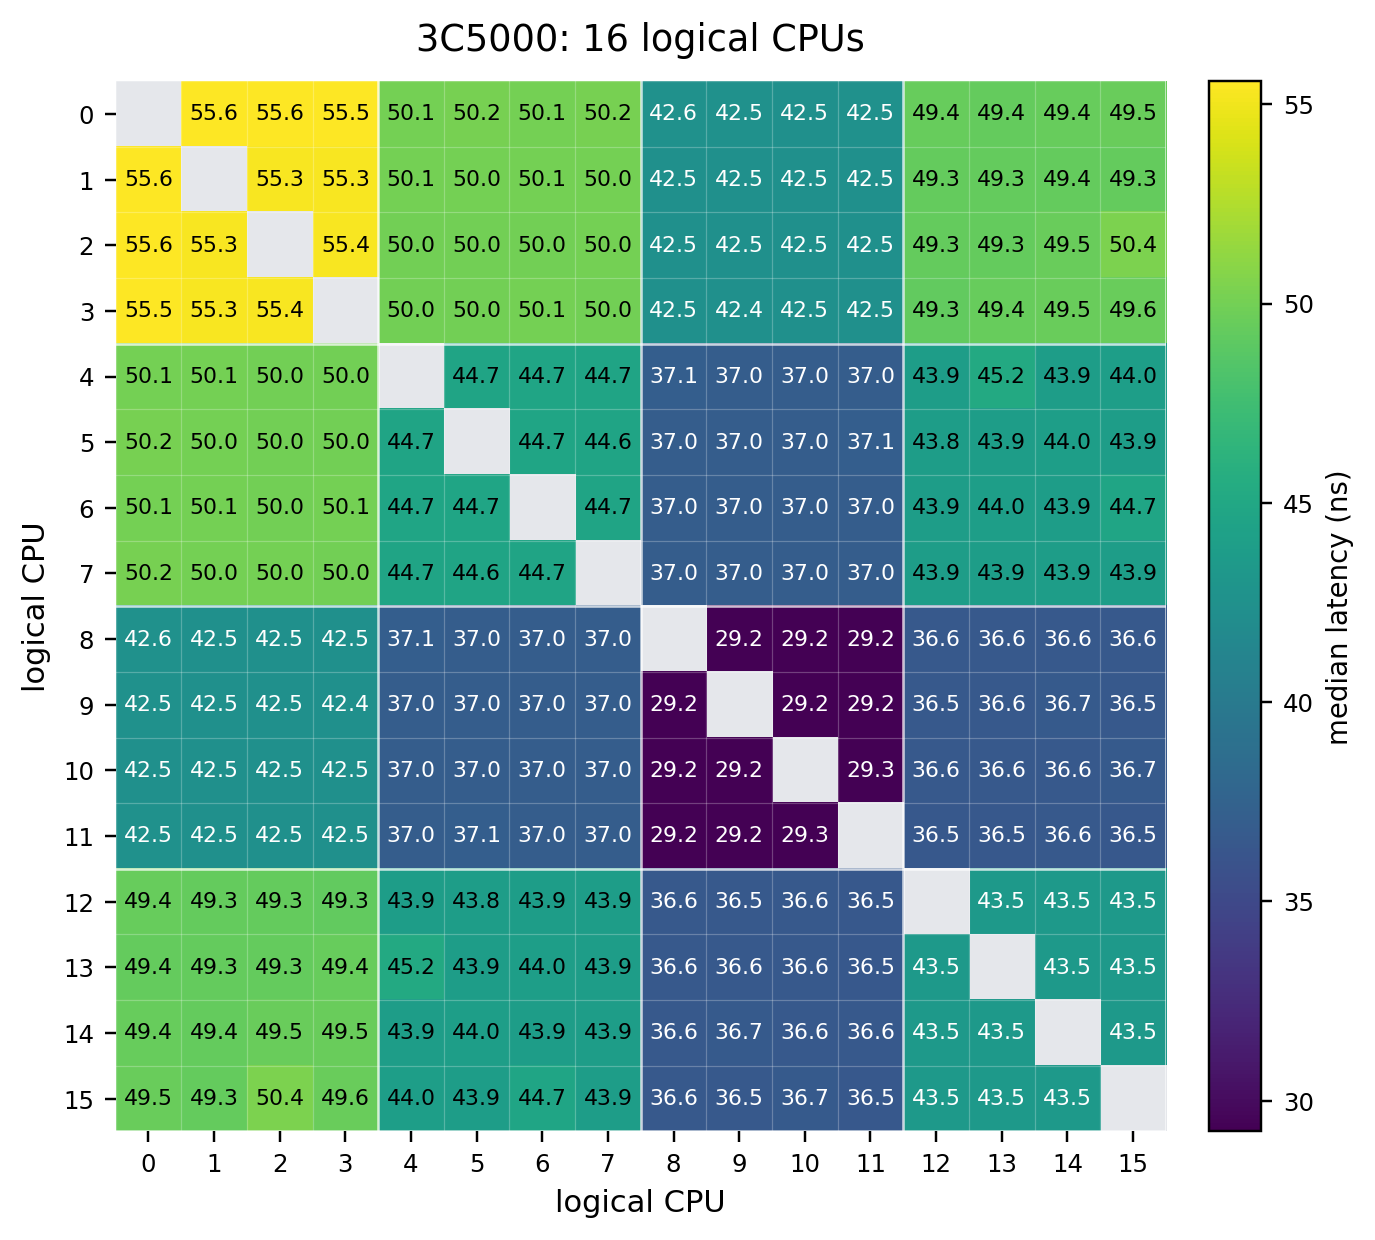
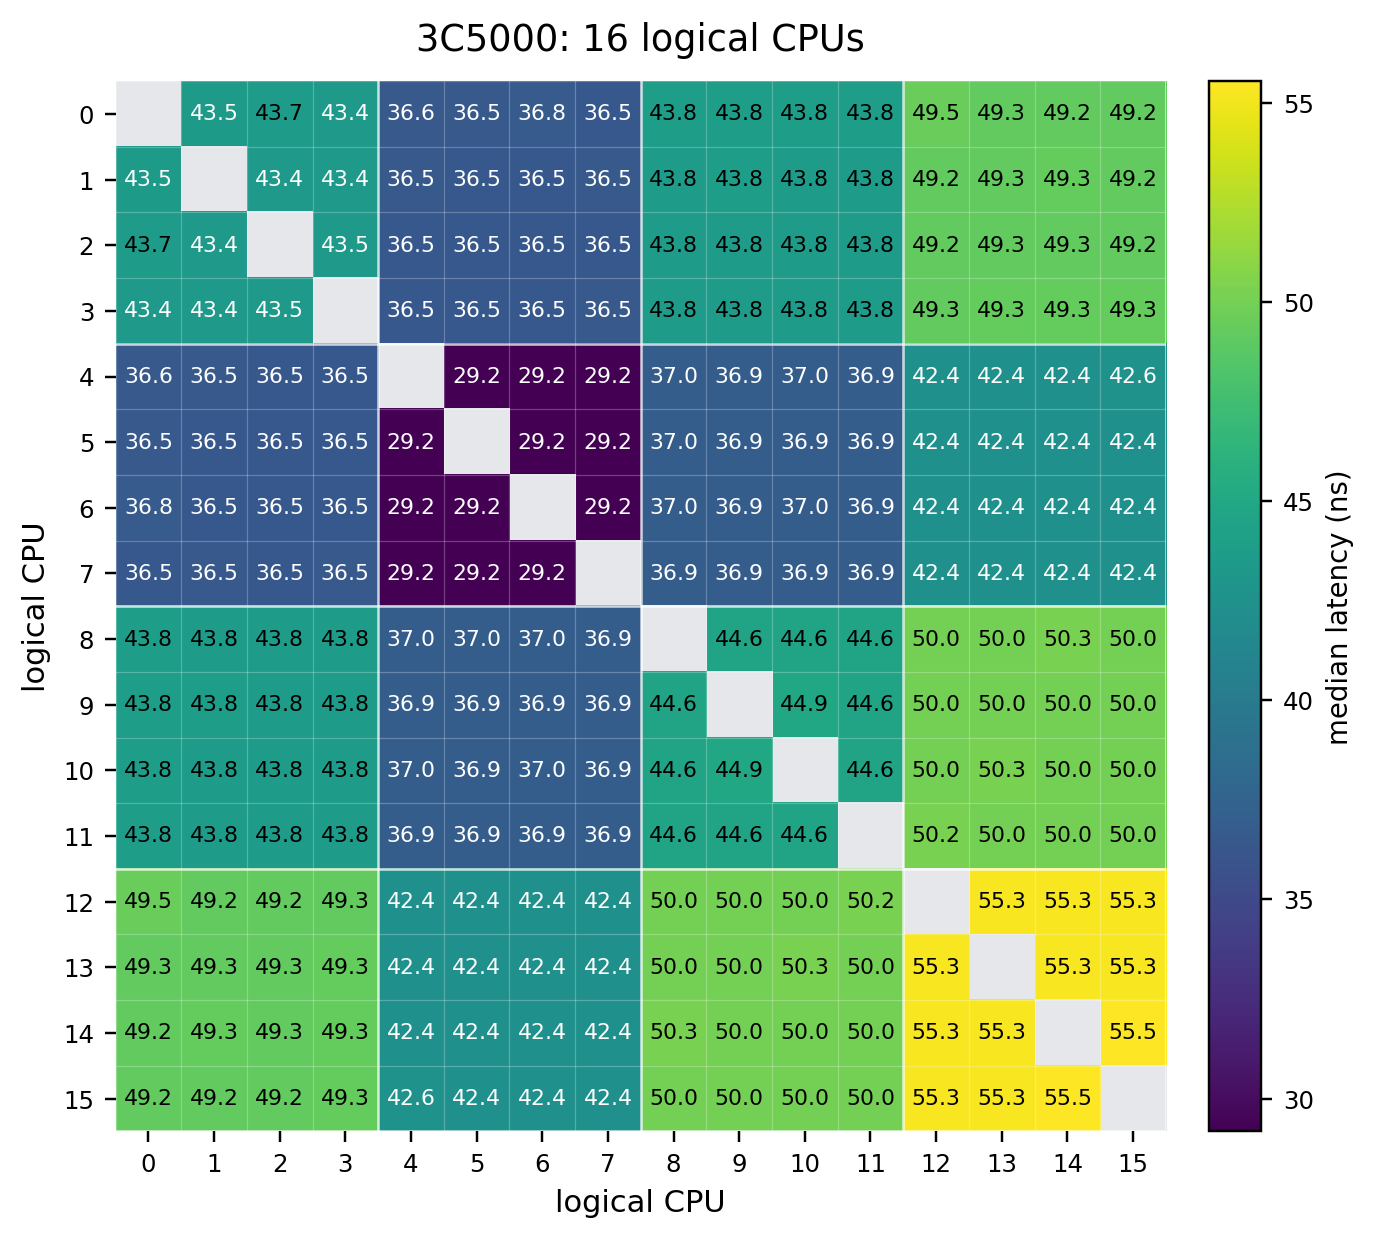
Improve docs

diff --git a/docs/microarchitecture/core-to-core.md b/docs/microarchitecture/core-to-core.md
@@ -1,8 +1,8 @@
 # Core-to-core latency
 
-A cache line that moves between cores costs far more than an L1 hit, and on a
-multi-die part the cost depends on which pair of cores is talking. The two
-heatmaps below plot measurements from
+A cache line that moves between cores costs far more than an L1 hit, and the
+cost is not uniform across the cores of a server part. The two heatmaps below
+plot measurements from
 [nviennot/core-to-core-latency](https://github.com/nviennot/core-to-core-latency)
 on a 3C5000 and a 3C6000/S.
 
@@ -14,39 +14,48 @@ diagonal is omitted. The raw matrices are in
 
 | Part | Logical CPUs | Min | Median | Max |
 | --- | --- | --- | --- | --- |
-| 3C5000 | 16 | 29.2 | 43.7 | 55.6 |
-| 3C6000/S | 32 | 20.1 | 26.3 | 32.3 |
+| 3C5000 | 16 | 29.2 | 43.8 | 55.5 |
+| 3C6000/S | 32 | 20.1 | 29.3 | 36.9 |
 
 All values are nanoseconds. For the 3C6000/S, the table includes SMT sibling
-pairs; excluding them changes the median only slightly, to 26.5 ns.
+pairs; excluding them changes the median only slightly, to 29.5 ns.
 
 ## 3C5000
 
 [![Core-to-core latency matrix for the 3C5000](../assets/images/core-to-core-3c5000.png)](../assets/images/core-to-core-3c5000.png)
 
-The 16 cores span 29 to 56 ns. The matrix is not flat: cores 0 to 3 are
-consistently slower to reach than cores 8 to 11, and the four bands of four
-cores are visible. Within a band, a pair is not faster than a pair across
-bands, so these are not local clusters; the pattern is closer to a fixed offset
-per core. The CSV has no topology labels, so the page does not assign the bands
-to dies or NUMA nodes. What matters for software is the spread: a line transfer
+The 16 cores span 29 to 56 ns. The matrix is not flat: cores 4 to 7 are
+consistently faster to reach than cores 12 to 15, and the four bands of four
+cores are visible. All 16 cores are in the same NUMA node, so these bands are
+not NUMA boundaries. Within a band, a pair is not faster than a pair across
+bands, so they are not local clusters either; the pattern is closer to a fixed
+offset per core. The CSV is a core-by-core matrix, but it does not say which
+cores share an L3 group, so the page describes the bands without naming the
+clusters. What matters for software is the spread: a line transfer
 can cost twice as much depending on which core pair is involved.
 
 ## 3C6000/S
 
 [![Core-to-core latency matrix for the 3C6000/S](../assets/images/core-to-core-3c6000s.png)](../assets/images/core-to-core-3c6000s.png)
 
-The newer part exposes 32 logical CPUs and spans 20 to 32 ns, with a median of
-26 ns. It is both faster and more uniform than the 3C5000: the median is about
-40% lower, and the worst pair is below the 3C5000 median. The 32 by 32 grid is
+The newer part exposes 32 logical CPUs and spans 20 to 37 ns, with a median of
+29 ns. It is both faster and more uniform than the 3C5000: the median is about a
+third lower, and the worst pair is below the 3C5000 median. The 32 by 32 grid is
 dense, so open the image at full size to read the values cell by cell.
+
+The matrix is not flat: logical CPUs 14 to 15 and 26 to 31 are the fastest to
+reach, while 0 to 1 are the slowest, and the four 8-thread blocks have distinct
+latency levels. All 32 logical CPUs are in the same NUMA node, so the blocks are
+not NUMA boundaries either. The CSV is a core-by-core matrix, but it does not
+say which cores share a cluster, so the page describes the blocks without
+naming one.
 
 The 3C6000/S has SMT, so its 32 logical CPUs are 16 cores with two threads each:
 0 and 1 are siblings, 2 and 3 are siblings, and so on. The 16 sibling pairs all
-measure 20.7 to 21.1 ns, and they are same-core transfers rather than
-core-to-core hops. Excluding them, the median is 26.5 ns. Most cross-core pairs
-are 23 to 32 ns, but a small group in the fastest block also reaches 20 to
-21 ns, so a low cell is not by itself proof of SMT.
+measure 20.8 to 21.4 ns, and they are same-core transfers rather than
+core-to-core hops. Excluding them, the median is 29.5 ns. Most cross-core pairs
+are 23 to 37 ns, but a small group also reaches 20 to 22 ns, so a low cell is
+not by itself proof of SMT.
 
 ## What this means for software
 
